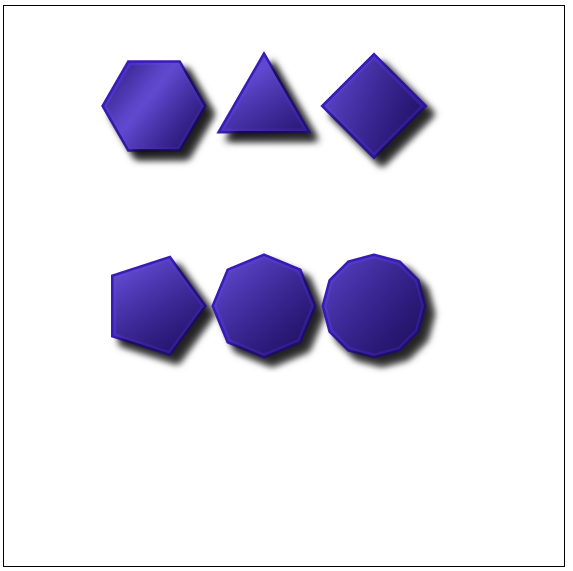
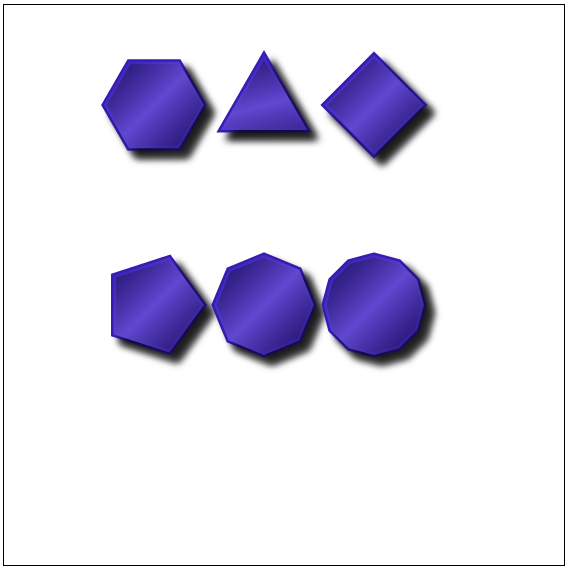
finished explanation of polygon function

diff --git a/solutions/chapter_1/hexagon/app.js b/solutions/chapter_1/hexagon/app.js
@@ -29,23 +29,20 @@ function drawPolygon(x, y, radius, sides, startAngle) {
   context.shadowOffsetY = 8;
   context.shadowBlur = 10;
   context.fill();
-/* 
+
   //Pintamos el borde de la figura
   context.strokeStyle = 'rgb(56, 29, 181)';
   context.lineWidth = 5;
   context.stroke();
-
+ 
   //Lo rellenamos con un gradiente
-  var gradient = context.createLinearGradient(-x/2, -y/2, radius, radius );
+  var gradient = context.createLinearGradient(-radius, -radius, radius, radius );
   gradient.addColorStop(0, "rgba(56, 29, 181, 0.5)");
-  gradient.addColorStop(0.45, "rgba(96, 72, 208, 0.95)");
   gradient.addColorStop(0.5, "rgb(96, 72, 208)");
-  gradient.addColorStop(0.53, "rgba(96, 72, 208, 0.97)");
   gradient.addColorStop(1, "rgba(56, 29, 181, 0.5)");
   context.fillStyle = gradient;
   context.fill();
-*/
-context.stroke();
+
   context.restore();
 }
 

diff --git a/chapter_intro/polygons.md b/chapter_intro/polygons.md
@@ -55,7 +55,7 @@ drawPolygon(150, 150, 50, 6);
 
 `canvas` nos proporciona herramientas para realizar cosas visualmente más apetecibles como dar sombras a los objetos, colores degradados, fondos de imagenes, etc.
 
-Introduzcamos algo de color en nuestro hexágono, para ello empecemos dándole una sombra, introduciendo este código antes de `context.stroke`:
+Introduzcamos algo de profundidad en nuestro hexágono, para ello empecemos dándole una sombra, añadiendo este código antes de `context.stroke`:
 
 ```javascript
 //Color de sombra
@@ -72,6 +72,36 @@ context.fill();
 
 ![](https://github.com/rafinskipg/introductioncanvas/raw/master/img/teory/chapter_1/hexagon_stroked_shadow.png)
 
+Cambiamos las propiedades del pintado de línea.
+
+```javascript
+context.strokeStyle = 'rgb(56, 29, 181)';
+context.lineWidth = 5;
+context.stroke();
+```
+
+![](https://github.com/rafinskipg/introductioncanvas/raw/master/img/teory/chapter_1/hexagon_stroked_shadow_newstroke.png)
+
+Y finalmente, creamos un gradiente. Este gradiente irá desde el origen de la figura hasta su final, y cambiará de color en el centro:
+
+```javascript
+//Podemos cambiar la dirección del gradiente cambiando las coordenadas
+//createLinearGradient(x, y, destX, destY)
+var gradient = context.createLinearGradient(-radius, -radius, radius, radius );
+//Color en la posición 0
+gradient.addColorStop(0, "rgba(56, 29, 181, 0.5)");
+//Color a mitad de distancia
+gradient.addColorStop(0.5, "rgb(96, 72, 208)");
+//Color al final
+gradient.addColorStop(1, "rgba(56, 29, 181, 0.5)");
+
+context.fillStyle = gradient;
+context.fill();
+```
+
+![](https://github.com/rafinskipg/introductioncanvas/raw/master/img/teory/chapter_1/hexagon.png)
+
+Veamos como quedaría en conjunto: 
 
 ```javascript
 var canvas = document.getElementById('canvas');
@@ -110,13 +140,11 @@ function drawPolygon(x, y, radius, sides, startAngle) {
   context.strokeStyle = 'rgb(56, 29, 181)';
   context.lineWidth = 5;
   context.stroke();
-
+ 
   //Lo rellenamos con un gradiente
-  var gradient = context.createLinearGradient(-x/2, -y/2, radius, radius );
+  var gradient = context.createLinearGradient(-radius, -radius, radius, radius );
   gradient.addColorStop(0, "rgba(56, 29, 181, 0.5)");
-  gradient.addColorStop(0.45, "rgba(96, 72, 208, 0.95)");
   gradient.addColorStop(0.5, "rgb(96, 72, 208)");
-  gradient.addColorStop(0.53, "rgba(96, 72, 208, 0.97)");
   gradient.addColorStop(1, "rgba(56, 29, 181, 0.5)");
   context.fillStyle = gradient;
   context.fill();
@@ -125,22 +153,26 @@ function drawPolygon(x, y, radius, sides, startAngle) {
 }
 
 function render(){
-  drawPolygon(150, 100, 50, 6, 0);
-  drawPolygon(260, 100, 50, 3, 30);
-  drawPolygon(370, 100, 50, 4, 0);
-
-  drawPolygon(150, 300, 50, 5, 0);
-  drawPolygon(260, 300, 50, 8, 0);
-  drawPolygon(370, 300, 50, 12, 0);
+  drawPolygon(150, 150, 100, 6, 0);
 }
 
 render();
 ```
+Recuerda que sirve para generar cualquier polígono regular, tan solo has de parametrizarlo:
 
-## Resultado
-![](https://github.com/rafinskipg/introductioncanvas/raw/master/img/teory/chapter_1/hexagon.png)
+```javascript
+drawPolygon(150, 100, 50, 6, 0);
+drawPolygon(260, 100, 50, 3, 30);
+drawPolygon(370, 100, 50, 4, 0);
 
+drawPolygon(150, 300, 50, 5, 0);
+drawPolygon(260, 300, 50, 8, 0);
+drawPolygon(370, 300, 50, 12, 0);
+```
 
+![](https://github.com/rafinskipg/introductioncanvas/raw/master/img/teory/chapter_1/polygons.png)
+
+##TODO : To check
 
 http://scienceprimer.com/drawing-regular-polygons-javascript-canvas
 
